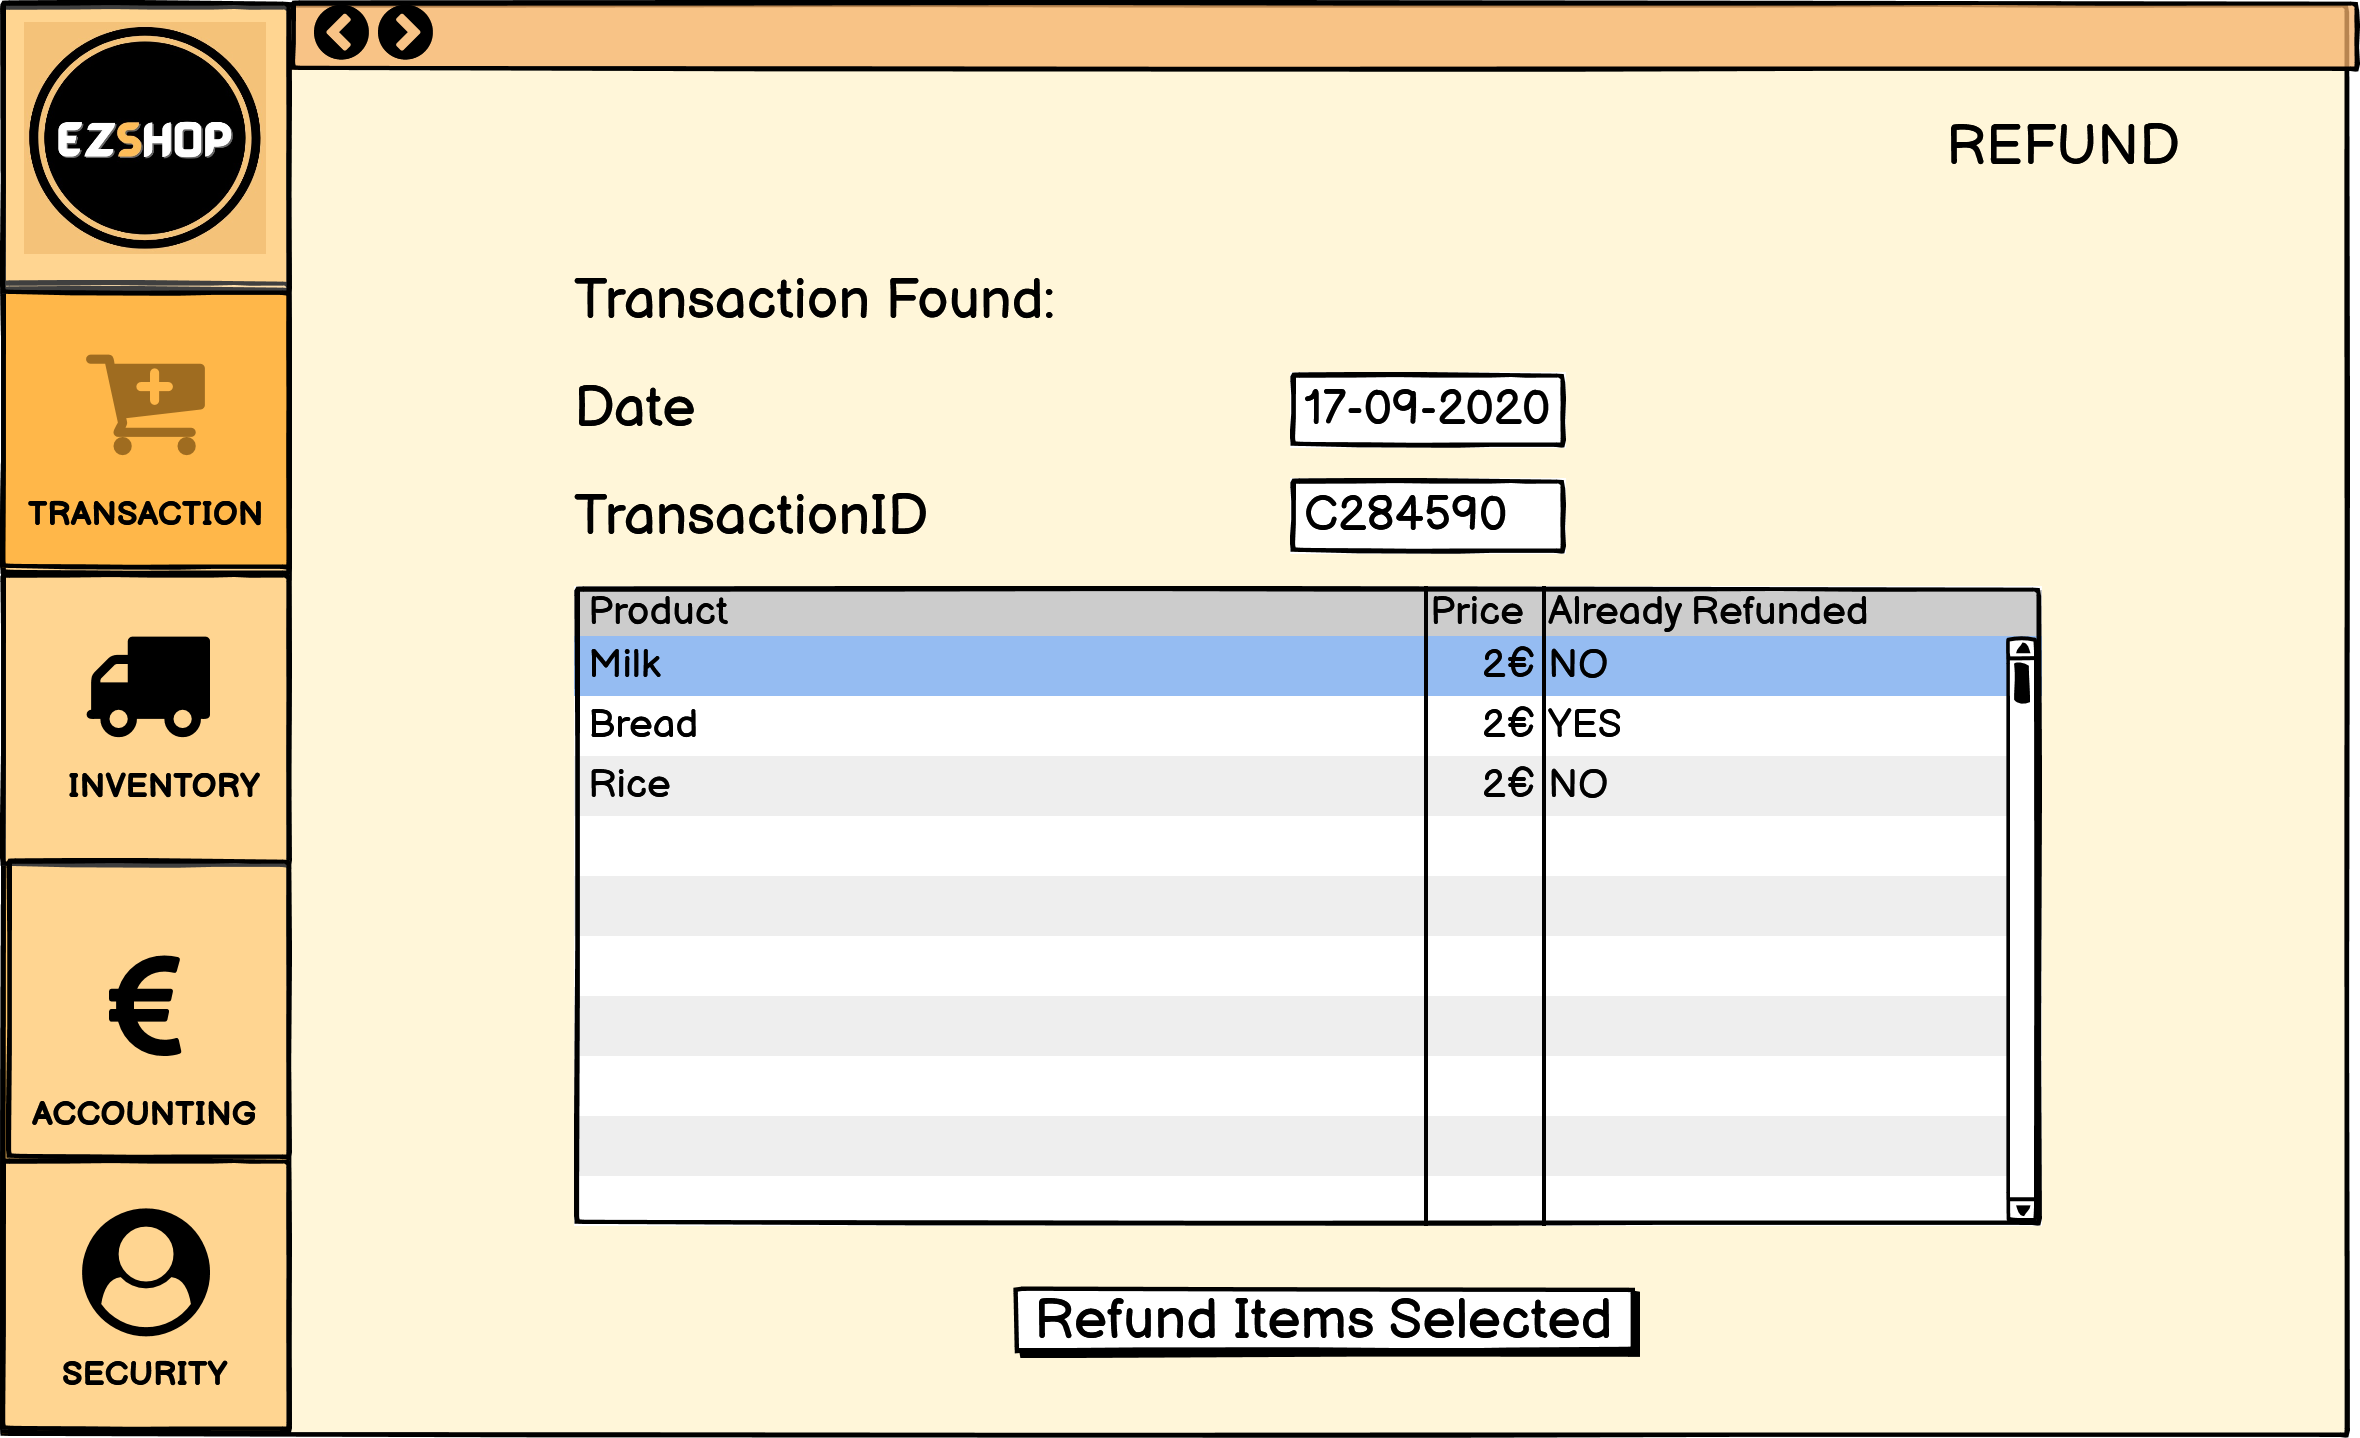
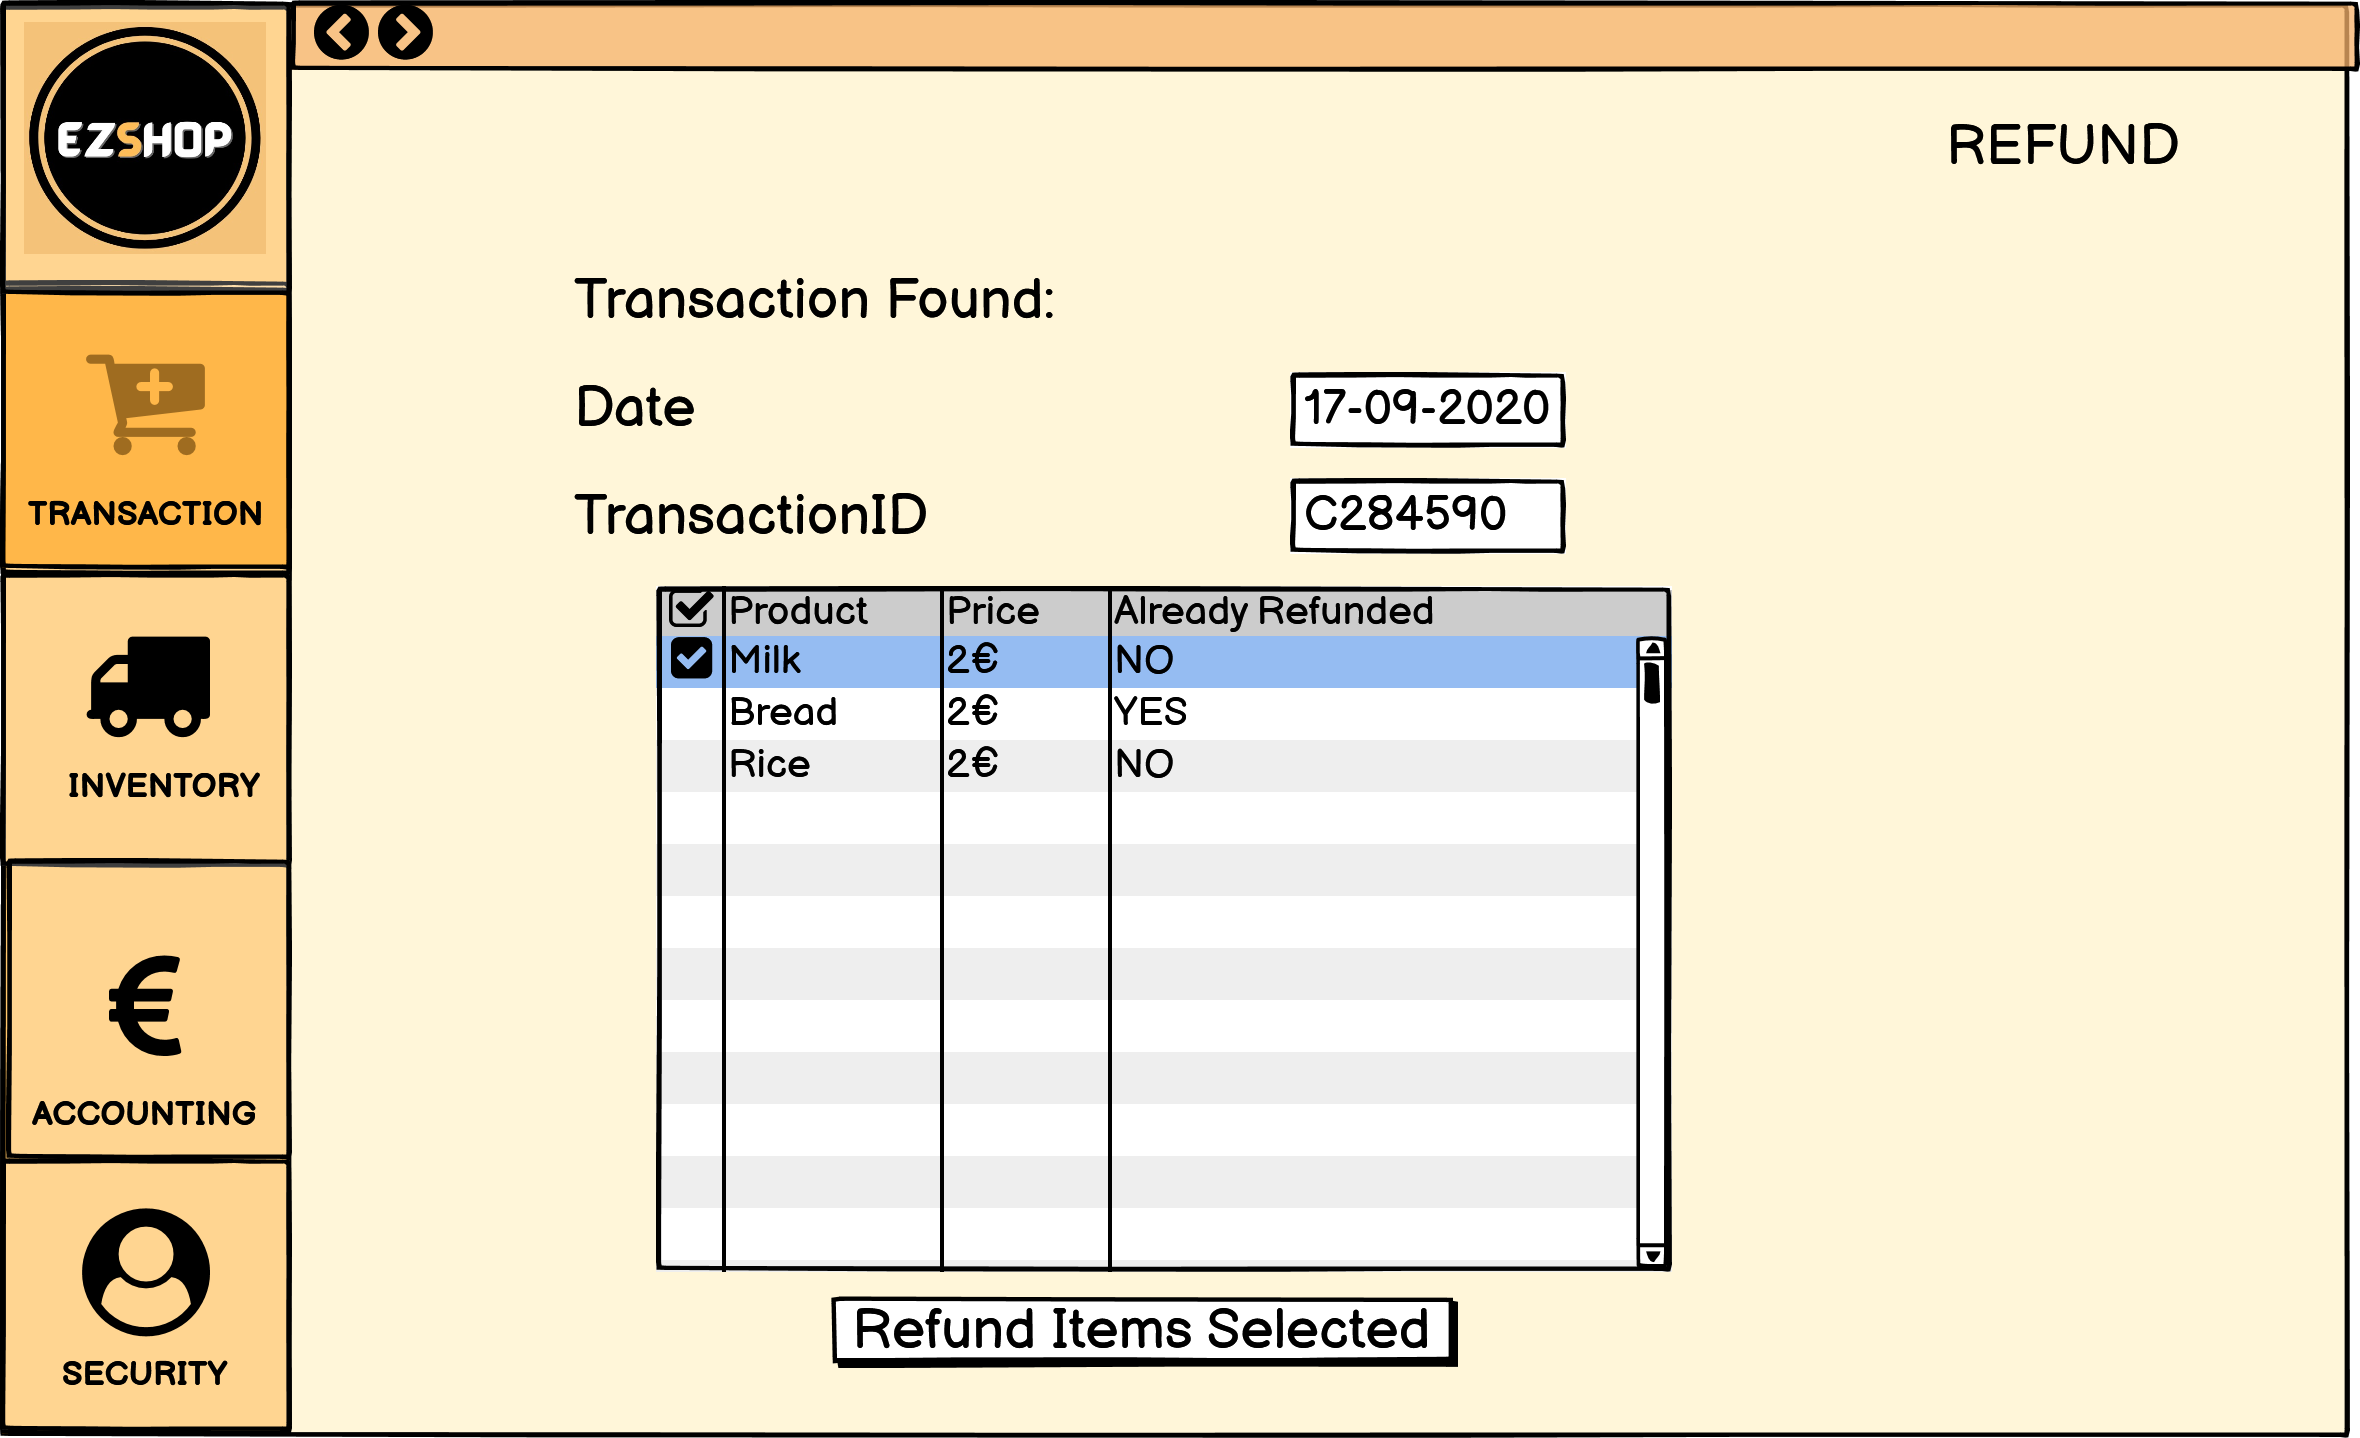
updated GUI.md, timesheet and req document

Changed region(s): [[0.2165, 0.3978, 0.8661, 0.9485]]

diff --git a/Deliverables/GUIPrototype.md b/Deliverables/GUIPrototype.md
@@ -36,6 +36,7 @@ Version:
       - [Using cash](#using-cash)
   - [New refund](#new-refund)
 - [Inventory](#inventory)
+- [Inventory](#inventory-1)
   - [New product](#new-product)
   - [New supply](#new-supply)
 - [Accounting](#accounting)
@@ -52,81 +53,135 @@ Version:
 
 # Login Page
 
+The employee logs in scanning his/her card. The manager instead needs to insert the user and the password for security reasons.
+
 ![](GuiPrototypePNGs/Login_page.png)
 
 # Home Page
+
+After logging in this is the page that every user finds.
+In the left the user can find five buttons. 
+From the top: the first one is to go back to the home page, the second one to manage the transactions of the customers, the third to update the inventory, the fourth to take care of the shop's accounting and the last one to reach the page where the manager and the IT administrator handle all the settings that only them can change.
+
+Depending on the rights that a user has (set by the manager/IT administrator at the creation of the user account) a user can or can not access the page linked by these buttons.
 
 ![](GuiPrototypePNGs\Hope_page_(normal).png)
 
 # Security
 
+If the user does not have the rights to access this part of the GUI:
+
 ![](GuiPrototypePNGs/SecurityUnathorised.png)
+
+Otherwise:
 
 ![](GuiPrototypePNGs/Security.png)
 
+The accounts are the employee accounts created by the manager or the IT administrator.
+
 
 ## Change shop settings
+
+Clicking on "change shop settings":
 
 ![](GuiPrototypePNGs/SecurityShopSetting.png)
 
 ## Log history
 
+Clicking on "Log history":
+
 ![](GuiPrototypePNGs/SecurityLoghistory.png)
 
 ## New account
 
+Clicking on "New Account":
+
 ![](GuiPrototypePNGs/SecurityNewAccount.png)
+
+To create an account all the fields need to be filled in. 
+The card Id is the barcode of the employee card that he/she will use to log in.
 
 ![](GuiPrototypePNGs/SecurityNewAccountErrir.png)
 
 ## Modify account
 
+Clicking on "Modify account":
+
 ![](GuiPrototypePNGs/SecurityModifyAccount.png)
 
 # Transaction
 
+If the user does not have the rights to access this part of the GUI:
+
 ![](GuiPrototypePNGs/TransUnathorised.png)
+
+Otherwise:
 
 ![](GuiPrototypePNGs/Transaction1.png)
 
+The user needs to chose whether to begin a new transaction or a new refund.
+
 ## New transaction
+
+Clicking on "New transaction"
 
 ![](GuiPrototypePNGs/Transaction2.png)
 
 ### Scan new product
 
+Clicking on "New Product"
+
 ![](GuiPrototypePNGs/NTrAddProduct.png)
 
 ### Modify product quantity
+
+Clicking on the quantity of a record already inserted.
 
 ![](GuiPrototypePNGs/NTrQuantityRecord.png)
 
 ### Manage customer
 
+Clicking on "Customer"
+
+In case no customer has been inserted yet:
+![](GuiPrototypePNGs/NTrCustomer.png)
+
+Scanning the fidelity card of the customer the informations about that customer are shown.
+Instead, if the customer does not have a fidelity customer account and wants to create one, the cashier can click on "New customer" and fill in all the informations.
+
 ![](GuiPrototypePNGs/NTrSignInCustomer.png)
 
-![](GuiPrototypePNGs/NTrCustomer.png)
+After a customer has been registered by the cashier, the window opened by clicking on "Customer" gets updated with all the informations about that customer, giving the cashier the ability of modifying those informations, checking the points balance or also deleting the account (if the customer requests so).
 
 ![](GuiPrototypePNGs/NTrCustomer_2.png)
 
 
 ### Use points to pay
 
+This feature is usable only if a customer has been registered.
+Otherwise:
 ![](GuiPrototypePNGs/NtrPointsNoCustomer.png)
+
+If a customer has been registered, the customer can choose how many of the points he has, convert in euros in order to pay a part of the purchase in this way. 
 
 ![](GuiPrototypePNGs/NtrSignUsePoints.png)
 
 ### Pay
 
+When all the products are inserted and the customer had already choose whether to use some points to pay the cashier can click on "End and pay".
+
 ![](GuiPrototypePNGs/NtrPayment1.png)
 
 #### Using credit card
+
+If the customer wants to pay with credit card:
 
 ![](GuiPrototypePNGs/NtrPayment4.png)
 
 ![](GuiPrototypePNGs/NtrPayment5.png)
 
 ![](GuiPrototypePNGs/NtrPayment6.png)
+In case the transaction is declined, the window closes going back to the transaction page. The transaction stays pending until the payment is completed.
 
 #### Using cash 
 
@@ -138,39 +193,69 @@ Version:
 
 ![](GuiPrototypePNGs/Transaction3.png)
 
+The customer needs to give the cashier the purchase receipt of the product he/she wants to refund.
+Scanning the barcode of the receipts the system looks for the informations about that transaction.
 ![](GuiPrototypePNGs/Refund1.png)
 
+In case the system does not find that transaction record:
 ![](GuiPrototypePNGs/Refund2.png)
 
-![](GuiPrototypePNGs/Refund3.png)
+If the transaction is found, the cashier can see the informatons about it. For every product bought It is memorised if it has been already refunded or not.
+![](GuiPrototypePNGs/Refund4.1.png)
+
+
+If the product has already been refunded, clicking on it, it happears a window with the date and the total of that past refund.
 
 ![](GuiPrototypePNGs/Refund4.png)
 
+The cashier selects the items that the customer wants to refund.
+
+![](GuiPrototypePNGs/Refund3.png)
+
+Clicking on "Refund items selected":
+
 ![](GuiPrototypePNGs/Refund5.png)
 
-![](GuiPrototypePNGs/Refund6.png)
+The cashier gives the customer the money back and the system memorizes the refund transaction.
 
 # Inventory
 
+# Inventory
+In case the user does not have the rights to access this part of GUI:
+
 ![](GuiPrototypePNGs/InventoryUnathorised.png)
+
+The table shows all the product available in the repository.
+The database can be filtered or sorted by a specific key.
+The user can download the report, add new product or new Supply (set of products bought by a supplier).
+
 
 ![](GuiPrototypePNGs/Inventory1.png)
 
 ## New product
+Clicking on "Add new Product" button, the user will be directed to this screen where he/she can add a new product record.
+To complete the entry, the user must fill in all the fields and press the save button.
 
 ![](GuiPrototypePNGs/Inventory2.png)
 
 ## New supply
+Same approach for the new supply.
 
 ![](GuiPrototypePNGs/Inventory3.png)
 
+
 # Accounting
 
+In case the user does not have the rights to access this part of GUI:
 ![](GuiPrototypePNGs/AccountingUnathorised.png)
 
+Otherwise:
 ![](GuiPrototypePNGs/Accounting.png)
+This is the table where all entries and exits are shown. The user can filter or sort the table by a specific key.
+
+Clicking on "Download report" the table is downloaded.
 
 ## New accounting record
-
+To add a new record, click on "New Record":
 ![](GuiPrototypePNGs/Accounting2.png)
 	

diff --git a/Deliverables/RequirementsDocument.md b/Deliverables/RequirementsDocument.md
@@ -66,11 +66,11 @@ EZShop is a software application to:
 | Cashier | Application GUI | Cash register |
 | Inventory manager | Application GUI | Device |
 | Accountant | Application GUI | Device |
-| Product | Read the bar code | Bar code reader |
+| Product | On the Application GUI "Scan the product" | Bar code reader |
 | Payment system | Payment APIs | POS, Device |
 | IT Administrator | Application GUI | Device |
 | Customer | POS GUI | POS |
-| Fidelity card | Read the card | Bar code reader |
+| Fidelity card | On the Application GUI "Scan the card" | Bar code reader |
 
 For reference:
 

diff --git a/Deliverables/TimeSheet.md b/Deliverables/TimeSheet.md
@@ -10,7 +10,7 @@ These figures will not be used to evaluate neither the project nor the team, the
 
 | Week | requirement engineering | design | coding | unit testing | integration testing | acceptance testing | management | git maven |
 |:-----------:|:--------:|:-----------:|:-----------:|:----------:|:------------:|:---------------:|:-------------:|:--------------:|
-| apr 5 - 11 | 48ph | | | | | | | |
+| apr 5 - 11 | 50ph | | | | | | | |
 | apr 12 - 18| | | | | | | | | 
 | apr 19 - 25| | | | | | | | | 
 | apr 26 - 2 | | | | | | | | | 
